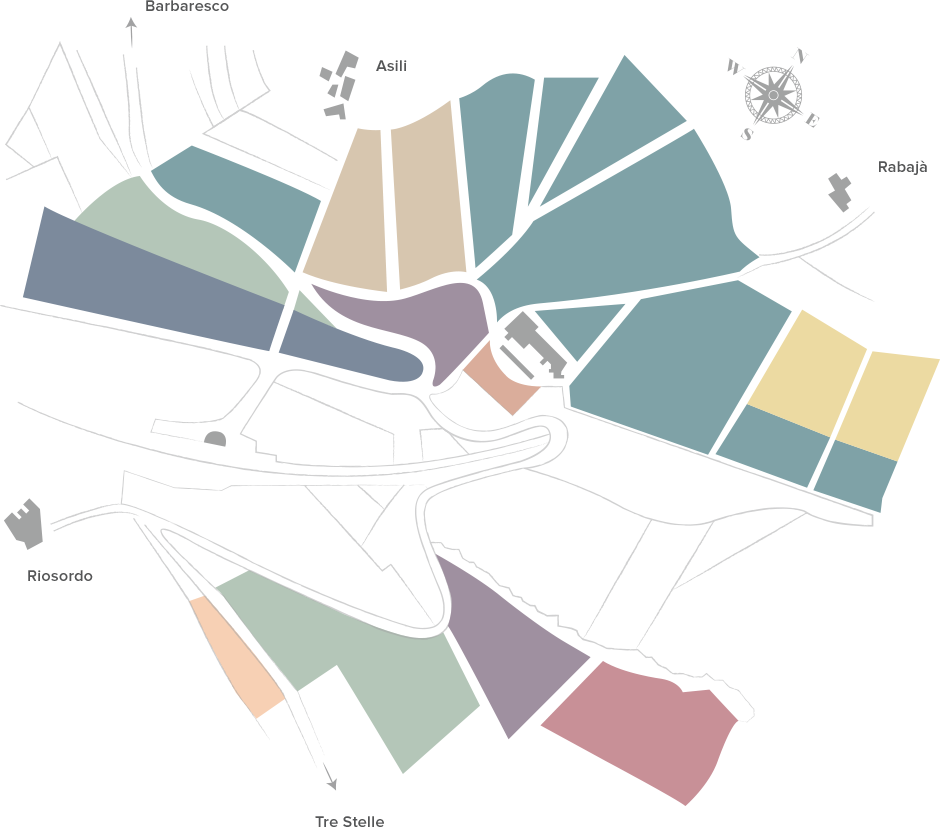
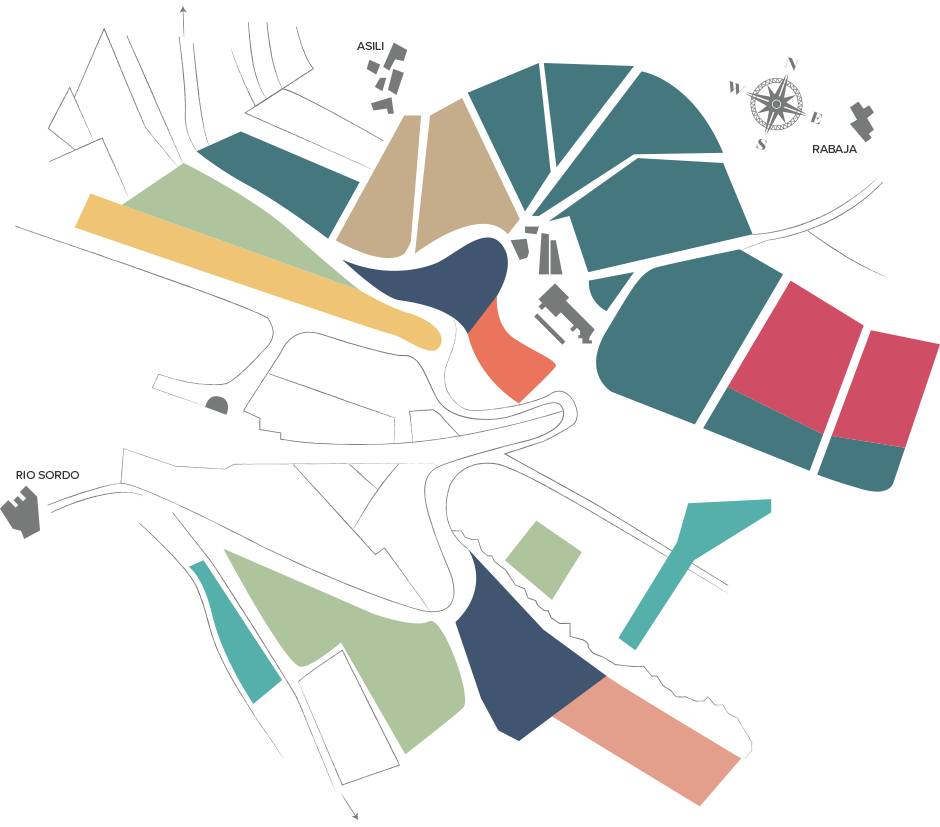
Fix mappa Martinenga + audit immagini vs produzione
- Martinenga: ripristinata l'immagine mappa DESKTOP originale di produzione
  (per errore era la variante mobile pastello); 9 punti riposizionati sui
  baricentri delle parcelle colorate distinte (IT + EN).
- Audit immagini: verificato che tutte le foto/illustrazioni/bottiglie/video/
  poster sono byte-identici alla produzione (139/139 file confrontabili).
- Doc deploy allineate alla config RunCloud reale (nginx location.main-before,
  handler PHP da cablare, SSL Let's Encrypt).
- Aggiunti LEGGIMI.md (guida cartella) e Guarda-sito-NUOVO.command (anteprima
  locale del sito nuovo).

diff --git a/docs/DEPLOY-RUNCLOUD.md b/docs/DEPLOY-RUNCLOUD.md
@@ -14,37 +14,38 @@ npm ci
 npm run build     # genera dist/ (include anche contact.php, copiato da public/)
 ```
 
-## 2. Pubblicazione dei file — Git deploy da GitHub (scelto)
+## 2. Pubblicazione dei file — Git deploy da GitHub (fatto)
 
-Repo: **`https://github.com/simoneattana/marchesidigresy`** (privato, branch `main`).
+Repo: **`https://github.com/simoneattana/marchesidigresy`** — **PUBBLICO**.
+- Branch `main` = sorgenti Astro.
+- Branch **`deploy`** = build già pronta (contenuto di `dist/` committato) → nessun Node sul server.
 
-Nel web app RunCloud **mdg.serversite.it**:
-1. **Git** → *Create Git Web Application* / collega repository:
-   - Provider **GitHub** → autorizza (OAuth) → seleziona `simoneattana/marchesidigresy`, branch `main`.
-   - (Repo privato: se non usi l'OAuth, RunCloud genera una **Deploy Key** → aggiungila in
-     GitHub → repo → Settings → Deploy keys.)
-2. **Node.js** sul server: installalo (RunCloud → server → *Native*/*Tools*, o `nvm` nello script di deploy).
-   Serve per la build.
-3. **Deployment script** (RunCloud → Web App → Git → *Deployment Script*):
-   ```bash
-   cd $RUNCLOUD_WEBAPP_ROOT
-   npm ci
-   npm run build
-   ```
-4. **Web root / Public Path**: imposta la cartella pubblica del web app su **`dist`**
-   (RunCloud → Web App → Settings → *Public Path* = `/dist`). nginx servirà `dist/`.
-5. **Deploy** (pulsante *Deploy* / push su `main` se l'auto-deploy è attivo).
+> Perché pubblico: la deploy key SSH condivisa dell'utente `runcloud` era già usata su un altro
+> repo (GitHub impone 1 deploy key per repo a livello globale). Rendere il repo pubblico evita del
+> tutto la chiave e semplifica il clone. Il repo non contiene segreti (la chiave SendGrid vive in
+> una env sul server, non nel codice).
 
-> **Alternativa senza Node sul server**: builda in locale (`npm run build`) e pubblica il branch
-> `deploy` con dentro il contenuto di `dist/` (web root = root, nessuno script). Dimmelo e te lo preparo.
+Nel web app RunCloud **mdg** (mdg.serversite.it) — fatto:
+1. **Git** → collega `simoneattana/marchesidigresy`, branch **`deploy`** (repo pubblico → niente
+   deploy key: togliere la spunta "Register deploy key"). → *Deploy* → il clone popola la web root.
+2. **Web root**: la root del web app (il branch `deploy` ha i file già in radice, non in `dist/`).
+3. Aggiornamenti futuri: `npm run build` in locale → committa `dist/` sul branch `deploy` → *Deploy*
+   su RunCloud (o auto-deploy on push). In alternativa passare a build-on-server (serve Node sul
+   server + deployment script `npm ci && npm run build` + Public Path = `/dist`).
 
-## 3. NGINX (URL puliti + redirect 301)
-Incolla il contenuto di [`deploy/nginx-runcloud.conf`](../deploy/nginx-runcloud.conf) nella sezione
-**NGINX Config** del web app (RunCloud → Web Application → Settings → NGINX Config), poi *Rebuild NGINX*.
+## 3. NGINX (URL puliti + redirect 301) — fatto
+Config standalone in RunCloud → Web Application → **NGINX Config** → *Create Standalone Config*,
+**Type = `location.main-before`**, contenuto = [`deploy/nginx-runcloud.conf`](../deploy/nginx-runcloud.conf).
+Poi *Run and Debug* (nginx -t) → *Update config*.
 Fa due cose: serve `/contatti` da `contatti.html` (niente `.html`/slash) e i 301 legacy
 (`/agriturismo`→`/wine-resort`, `/diary`→`/`, `/news/*`→`/`, `/about`→`/`).
+Verificato live: tutte le pagine IT/EN e le schede vino → 200; redirect → 301; asset e font → 200.
 
-## 4. Modulo contatti (SendGrid) — attivazione
+## 4. Modulo contatti (PHP + SendGrid) — DA FARE AL GO-LIVE
+⚠ **Prima serve il PHP handler.** Lo stack "Native NGINX + Custom config" **non** esegue i `.php`
+(verificato: `GET /contact.php` scarica il sorgente). Cablare l'handler FastCGI (vedi nota in
+[`deploy/nginx-runcloud.conf`](../deploy/nginx-runcloud.conf)) oppure ricreare il web app con stack
+**Native NGINX** gestito. Poi:
 1. SendGrid: crea **API key** (solo *Mail Send*) e **verifica il mittente** `no-reply@marchesidigresy.com`
    (Single Sender o, meglio, Domain Authentication con record DNS SPF/DKIM).
 2. Imposta la env **`SENDGRID_API_KEY`** sul web app (RunCloud → Web App → Settings → **Environment
@@ -52,9 +53,17 @@ Fa due cose: serve `/contatti` da `contatti.html` (niente `.html`/slash) e i 301
 3. In `content/contatti.md` e `content/en/contatti.md` imposta `endpoint: "/contact.php"` e ri-builda.
 4. Test dal modulo → arrivo su `hello@marchesidigresy.com` (controlla anche spam finché il dominio
    non è autenticato).
-> Finché `SENDGRID_API_KEY` non c'è, `contact.php` risponde 503 e non invia: nessun invio accidentale.
+> Finché l'endpoint del form è `""`, il modulo non chiama `contact.php` (nessun invio). E finché
+> `SENDGRID_API_KEY` non c'è, `contact.php` risponde 503: doppia sicurezza contro invii accidentali.
 
 ## 5. Go-live (DNS) — passo finale, insieme
+> **Stato staging (fatto):** sito live su **https://mdg.serversite.it** — SSL/TLS Basic (Let's Encrypt,
+> http-01, cert valido). Redirezione impostata su **No Redirection (HTTP access enabled)**: http e https
+> entrambi accessibili (per il go-live sul dominio reale si può passare a *Server Side HTTPS Redirection*).
+> Nota: l'emissione LE si è impuntata al 1° tentativo con redirect forzato; ri-emessa con *No Redirection*
+> ha funzionato (~8 min). Pagine, redirect legacy, asset, font e URL puliti verificati su https (200/301,
+> zero errori console). Restano: PHP handler + SendGrid (§4), mirror Webflow su sottodominio nascosto.
+
 1. **Staging prima**: pubblica su un dominio/sottodominio di prova (o l'IP) e verifica tutto live.
 2. Quando ok: punta il **DNS** di `marchesidigresy.com` (record A/AAAA) all'IP del server RunCloud,
    emetti l'**SSL** (Let's Encrypt da RunCloud), verifica `www` + redirect canonico.

diff --git a/content/martinenga.md b/content/martinenga.md
@@ -33,15 +33,17 @@ espressioni:
 map:
   image: "/assets/img/martinenga-map.png"
   plots:
-    - { name: "Vigneto Di Sauvignon Blanc", ha: "2.07.52 Ha", esposizione: "S/E e N", altitudine: "215m", vini: ["Sauvignon Langhe Doc"], x: 32.9, y: 83.4 }
-    - { name: "Vigneto di Gaiun Martinenga", ha: "2.30.16 Ha", esposizione: "S", altitudine: "270m", vini: ["Gaiun Martinenga Barbaresco Docg"], x: 38.2, y: 27.6 }
-    - { name: "Vigneto Di Cabernet Sauvignon", ha: "0.64.00 Ha", esposizione: "S/SW", altitudine: "240m", vini: ["Virtus Langhe Rosso Doc"], x: 76.6, y: 92.3 }
-    - { name: "Martinenga", ha: "6.49.00 Ha", esposizione: "S/SW", altitudine: "250m", vini: ["Martinenga Barbaresco Docg", "Nebbiolo Martinenga Langhe Doc"], x: 52.1, y: 9.8 }
-    - { name: "Vigneto Di Barbera", ha: "1.37.00 Ha", esposizione: "S e SW", altitudine: "225m", vini: ["Virtus Langhe Rosso Doc", "Villa Martis Langhe Rosso Doc"], x: 47.1, y: 82.1 }
-    - { name: "Vigneto Di Chardonnay", ha: "1.00.00 Ha", esposizione: "S/SW", altitudine: "210m", vini: ["Chardonnay Langhe Doc", "Grésy Chardonnay Langhe Doc"], x: 3.1, y: 27.8 }
-    - { name: "Vigneto Di Nebbiolo", ha: "0.67.00 Ha", esposizione: "NE e S", altitudine: "245m", vini: ["Villa Martis Langhe Rosso Doc"], x: 14.8, y: 79.1 }
-    - { name: "Vigneto Sperimentale Di Nebbiolo", ha: "0.28.00 Ha", esposizione: "S/SW", altitudine: "225m", vini: ["Nebbiolo Martinenga Langhe Doc"], x: 44.3, y: 45.5 }
-    - { name: "Vigneto Di Camp Gros Martinenga", ha: "2.58.00 Ha", esposizione: "SW", altitudine: "280m", vini: ["Camp Gros Martinenga Barbaresco Riserva Docg"], x: 85.5, y: 43.4 }
+    # Immagine = originale di produzione (martinenga.png). Punti riposizionati in modo razionale:
+    # ognuno sul baricentro di una parcella colorata distinta (verifica esatta nome<->parcella lato cantina).
+    - { name: "Vigneto Di Sauvignon Blanc", ha: "2.07.52 Ha", esposizione: "S/E e N", altitudine: "215m", vini: ["Sauvignon Langhe Doc"], x: 61.3, y: 84.0 }
+    - { name: "Vigneto di Gaiun Martinenga", ha: "2.30.16 Ha", esposizione: "S", altitudine: "270m", vini: ["Gaiun Martinenga Barbaresco Docg"], x: 30.3, y: 21.6 }
+    - { name: "Vigneto Di Cabernet Sauvignon", ha: "0.64.00 Ha", esposizione: "S/SW", altitudine: "240m", vini: ["Virtus Langhe Rosso Doc"], x: 73.6, y: 66.9 }
+    - { name: "Martinenga", ha: "6.49.00 Ha", esposizione: "S/SW", altitudine: "250m", vini: ["Martinenga Barbaresco Docg", "Nebbiolo Martinenga Langhe Doc"], x: 55.0, y: 15.5 }
+    - { name: "Vigneto Di Barbera", ha: "1.37.00 Ha", esposizione: "S e SW", altitudine: "225m", vini: ["Virtus Langhe Rosso Doc", "Villa Martis Langhe Rosso Doc"], x: 72.7, y: 39.9 }
+    - { name: "Vigneto Di Chardonnay", ha: "1.00.00 Ha", esposizione: "S/SW", altitudine: "210m", vini: ["Chardonnay Langhe Doc", "Grésy Chardonnay Langhe Doc"], x: 25.6, y: 30.0 }
+    - { name: "Vigneto Di Nebbiolo", ha: "0.67.00 Ha", esposizione: "NE e S", altitudine: "245m", vini: ["Villa Martis Langhe Rosso Doc"], x: 38.6, y: 78.4 }
+    - { name: "Vigneto Sperimentale Di Nebbiolo", ha: "0.28.00 Ha", esposizione: "S/SW", altitudine: "225m", vini: ["Nebbiolo Martinenga Langhe Doc"], x: 50.1, y: 37.3 }
+    - { name: "Vigneto Di Camp Gros Martinenga", ha: "2.58.00 Ha", esposizione: "SW", altitudine: "280m", vini: ["Camp Gros Martinenga Barbaresco Riserva Docg"], x: 84.0, y: 45.8 }
 estates:
   - { name: "Monte Aribaldo", href: "/monte-aribaldo", text: "Il colle Monte Aribaldo, in comune di Treiso, sovrasta la zona di Martinenga cui dista circa 2 km..." }
   - { name: "La Serra", href: "/la-serra", text: "Ubicata sulle colline del comune di Cassine, sulla direttrice per Ricaldone e Alice Bel Colle..." }

diff --git a/content/en/martinenga.md b/content/en/martinenga.md
@@ -22,15 +22,16 @@ espressioni:
 map:
   image: "/assets/img/martinenga-map.png"
   plots:
-    - { name: "Vigneto Di Sauvignon Blanc", ha: "2.07.52 Ha", esposizione: "S/E e N", altitudine: "215m", vini: ["Sauvignon Langhe Doc"], x: 32.9, y: 83.4 }
-    - { name: "Vigneto di Gaiun Martinenga", ha: "2.30.16 Ha", esposizione: "S", altitudine: "270m", vini: ["Gaiun Martinenga Barbaresco Docg"], x: 38.2, y: 27.6 }
-    - { name: "Vigneto Di Cabernet Sauvignon", ha: "0.64.00 Ha", esposizione: "S/SW", altitudine: "240m", vini: ["Virtus Langhe Rosso Doc"], x: 76.6, y: 92.3 }
-    - { name: "Martinenga", ha: "6.49.00 Ha", esposizione: "S/SW", altitudine: "250m", vini: ["Martinenga Barbaresco Docg", "Nebbiolo Martinenga Langhe Doc"], x: 52.1, y: 9.8 }
-    - { name: "Vigneto Di Barbera", ha: "1.37.00 Ha", esposizione: "S e SW", altitudine: "225m", vini: ["Virtus Langhe Rosso Doc", "Villa Martis Langhe Rosso Doc"], x: 47.1, y: 82.1 }
-    - { name: "Vigneto Di Chardonnay", ha: "1.00.00 Ha", esposizione: "S/SW", altitudine: "210m", vini: ["Chardonnay Langhe Doc", "Grésy Chardonnay Langhe Doc"], x: 3.1, y: 27.8 }
-    - { name: "Vigneto Di Nebbiolo", ha: "0.67.00 Ha", esposizione: "NE e S", altitudine: "245m", vini: ["Villa Martis Langhe Rosso Doc"], x: 14.8, y: 79.1 }
-    - { name: "Vigneto Sperimentale Di Nebbiolo", ha: "0.28.00 Ha", esposizione: "S/SW", altitudine: "225m", vini: ["Nebbiolo Martinenga Langhe Doc"], x: 44.3, y: 45.5 }
-    - { name: "Vigneto Di Camp Gros Martinenga", ha: "2.58.00 Ha", esposizione: "SW", altitudine: "280m", vini: ["Camp Gros Martinenga Barbaresco Riserva Docg"], x: 85.5, y: 43.4 }
+    # Immagine = originale di produzione (martinenga.png). Punti su parcelle colorate distinte (verifica cantina).
+    - { name: "Vigneto Di Sauvignon Blanc", ha: "2.07.52 Ha", esposizione: "S/E e N", altitudine: "215m", vini: ["Sauvignon Langhe Doc"], x: 61.3, y: 84.0 }
+    - { name: "Vigneto di Gaiun Martinenga", ha: "2.30.16 Ha", esposizione: "S", altitudine: "270m", vini: ["Gaiun Martinenga Barbaresco Docg"], x: 30.3, y: 21.6 }
+    - { name: "Vigneto Di Cabernet Sauvignon", ha: "0.64.00 Ha", esposizione: "S/SW", altitudine: "240m", vini: ["Virtus Langhe Rosso Doc"], x: 73.6, y: 66.9 }
+    - { name: "Martinenga", ha: "6.49.00 Ha", esposizione: "S/SW", altitudine: "250m", vini: ["Martinenga Barbaresco Docg", "Nebbiolo Martinenga Langhe Doc"], x: 55.0, y: 15.5 }
+    - { name: "Vigneto Di Barbera", ha: "1.37.00 Ha", esposizione: "S e SW", altitudine: "225m", vini: ["Virtus Langhe Rosso Doc", "Villa Martis Langhe Rosso Doc"], x: 72.7, y: 39.9 }
+    - { name: "Vigneto Di Chardonnay", ha: "1.00.00 Ha", esposizione: "S/SW", altitudine: "210m", vini: ["Chardonnay Langhe Doc", "Grésy Chardonnay Langhe Doc"], x: 25.6, y: 30.0 }
+    - { name: "Vigneto Di Nebbiolo", ha: "0.67.00 Ha", esposizione: "NE e S", altitudine: "245m", vini: ["Villa Martis Langhe Rosso Doc"], x: 38.6, y: 78.4 }
+    - { name: "Vigneto Sperimentale Di Nebbiolo", ha: "0.28.00 Ha", esposizione: "S/SW", altitudine: "225m", vini: ["Nebbiolo Martinenga Langhe Doc"], x: 50.1, y: 37.3 }
+    - { name: "Vigneto Di Camp Gros Martinenga", ha: "2.58.00 Ha", esposizione: "SW", altitudine: "280m", vini: ["Camp Gros Martinenga Barbaresco Riserva Docg"], x: 84.0, y: 45.8 }
 estates:
   - { name: "Monte Aribaldo", href: "/monte-aribaldo", text: "Just two kilometers away from Martinenga..." }
   - { name: "La Serra", href: "/la-serra", text: "Located in Cassine, Monferrato, La Serra estate consists of 11 hectares..." }

diff --git a/LEGGIMI.md b/LEGGIMI.md
@@ -1,0 +1,32 @@
+# LEGGIMI — Marchesi di Grésy
+
+## Cos'è questa cartella
+Questo è il **SITO NUOVO** (tecnologia Astro): quello che stiamo costruendo e che va
+online su **https://mdg.serversite.it** (in futuro sostituirà il sito Webflow).
+Tutte le modifiche al sito nuovo si fanno **qui dentro**.
+
+## Le due cartelle da non confondere
+| Cartella | Cos'è | Come vederla |
+|---|---|---|
+| `MARCHESIDIGRESY/` (questa) | il **sito NUOVO** → mdg.serversite.it | doppio clic su **`Guarda-sito-NUOVO.command`** |
+| `../marchesidigresy-webflow-snapshot/` (cartella sorella) | **copia del sito attuale in PRODUZIONE** (Webflow live) | doppio clic su `Guarda-sito-PRODUZIONE.command` |
+
+Sono separate apposta: qui NON c'è nessun file del sito Webflow.
+
+## Cosa si modifica (i contenuti)
+- **`content/`** → i testi delle pagine (file `.md`, uno per pagina; `content/en/` = versione inglese).
+- **`public/assets/`** → immagini, video, PDF, font.
+- **`design/`** → colori, tipografia, spaziature (lo stile del sito).
+- **`src/`** → struttura e componenti delle pagine (parte tecnica).
+
+## Cosa NON toccare (si generano da soli)
+- **`dist/`** → il sito "compilato". Si rigenera a ogni build: non modificare i file qui, verrebbero sovrascritti.
+- **`node_modules/`**, **`.astro/`** → librerie e cache tecniche.
+
+## Come vedere il sito nuovo
+Doppio clic su **`Guarda-sito-NUOVO.command`**: rigenera il sito con le ultime modifiche
+e lo apre nel browser. Per chiudere, chiudi la finestra del Terminale.
+
+## Come va online (in sintesi)
+Build in locale → si aggiorna il branch `deploy` su GitHub → RunCloud pubblica su mdg.serversite.it.
+Dettagli in [`docs/DEPLOY-RUNCLOUD.md`](docs/DEPLOY-RUNCLOUD.md). Piano generale in [`ROADMAP.md`](ROADMAP.md).
